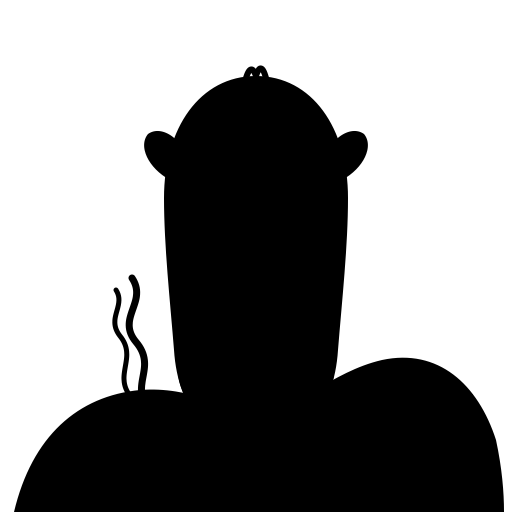
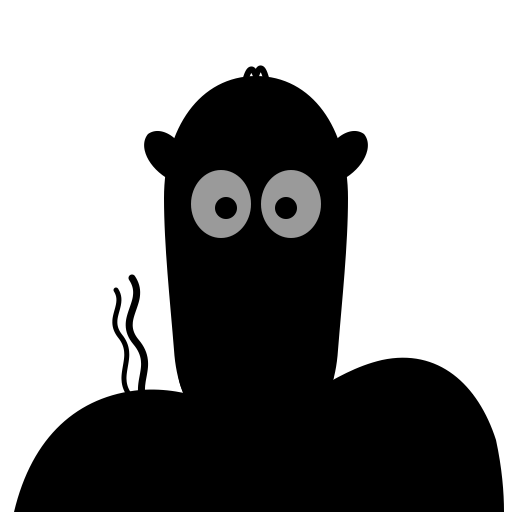
Add block-letter wordmark and eyes to the CLI camel

Changed region(s): [[0.375, 0.3125, 0.625, 0.4688]]

diff --git a/tools/make_silhouette.py b/tools/make_silhouette.py
@@ -1,0 +1,30 @@
+"""Build cli_silhouette.svg from the mascot: black body, grey eyes with pupils."""
+from pathlib import Path
+import re
+
+ROOT = Path(__file__).resolve().parents[1]
+
+src = (ROOT / "static" / "logo_cli.svg").read_text()
+
+# Drop background, glow, and ring so only the camel remains.
+src = re.sub(r'<rect width="512".*?/>', "", src)
+src = re.sub(r'<circle cx="256" cy="230".*?/>', "", src)
+src = re.sub(r'<circle cx="256" cy="248".*?/>', "", src)
+
+# Recolor every remaining shape to solid black.
+src = re.sub(r'fill="url\(#[^)]*\)"', 'fill="#000"', src)
+src = re.sub(r'fill="#[0-9A-Fa-f]{6}"', 'fill="#000"', src)
+src = re.sub(r'stroke="#[0-9A-Fa-f]{6}"', 'stroke="#000"', src)
+src = re.sub(r'(stroke-opacity|opacity)="[0-9.]+"', r'\1="1"', src)
+
+# Draw eyes on top: grey sclera maps to a light ASCII glyph, black pupil.
+eyes = """
+  <ellipse cx="221" cy="204" rx="30" ry="34" fill="#9A9A9A"/>
+  <ellipse cx="291" cy="204" rx="30" ry="34" fill="#9A9A9A"/>
+  <circle cx="226" cy="208" r="11" fill="#000000"/>
+  <circle cx="286" cy="208" r="11" fill="#000000"/>
+"""
+src = src.replace("</svg>", eyes + "</svg>")
+
+(ROOT / "static" / "cli_silhouette.svg").write_text(src)
+print("wrote cli_silhouette.svg")

diff --git a/cli.py b/cli.py
@@ -100,11 +100,12 @@ def paint(text, code):
 
 
 def print_banner():
-    art = Path(__file__).with_name("cli_art.txt")
-    if art.exists():
-        for line in art.read_text().splitlines():
-            print(paint(line, GREEN))
-    print(paint("  CRACK OR TRACK", GREEN + "\033[1m"))
+    for name in ("cli_wordmark.txt", "cli_art.txt"):
+        f = Path(__file__).with_name(name)
+        if f.exists():
+            for line in f.read_text().splitlines():
+                print(paint(line, GREEN))
+            print()
     print(paint("  BY ABO SARA", GOLD))
     print(paint("  Crack the System. Track the Threat.", DIM))
     print()

diff --git a/README.md b/README.md
@@ -92,6 +92,7 @@ templates/      Jinja pages (green console UI)
 static/         logo and stylesheet
 cli.py          terminal version
 cli_art.txt     camel mascot rendered as green ASCII character art
+cli_wordmark.txt  CRACK OR TRACK block-letter wordmark
 tools/          CLI art generator
 tests/          engine, scoring, content tests
 ```
